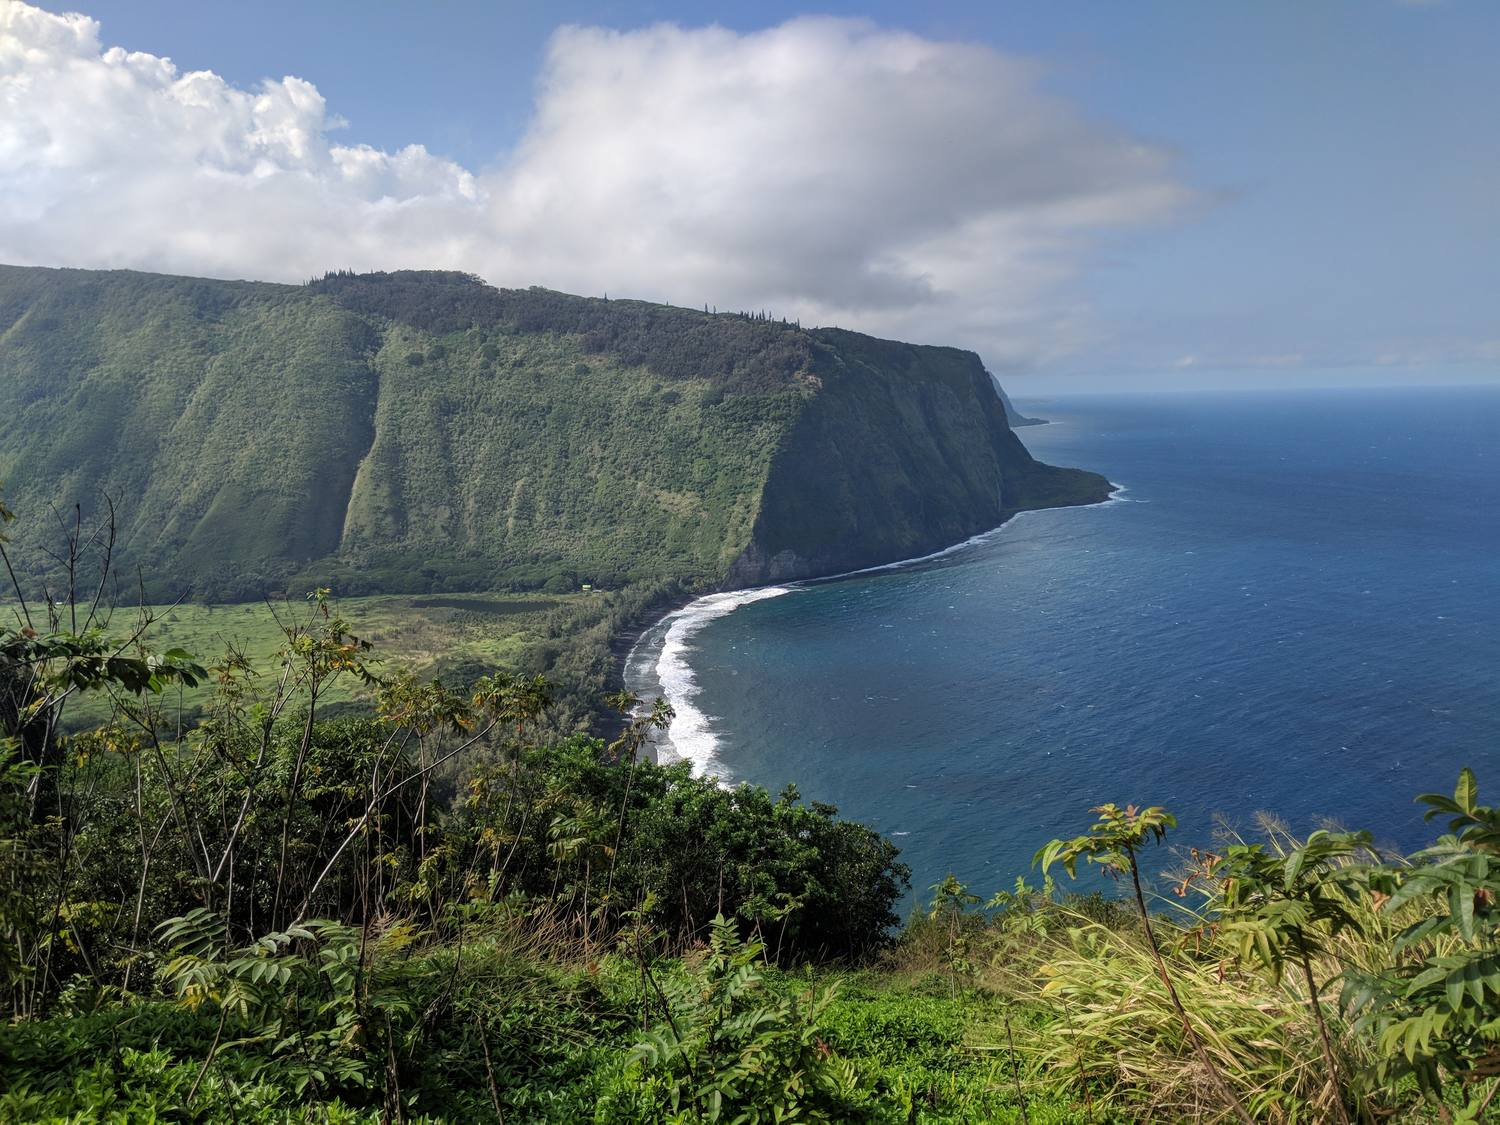
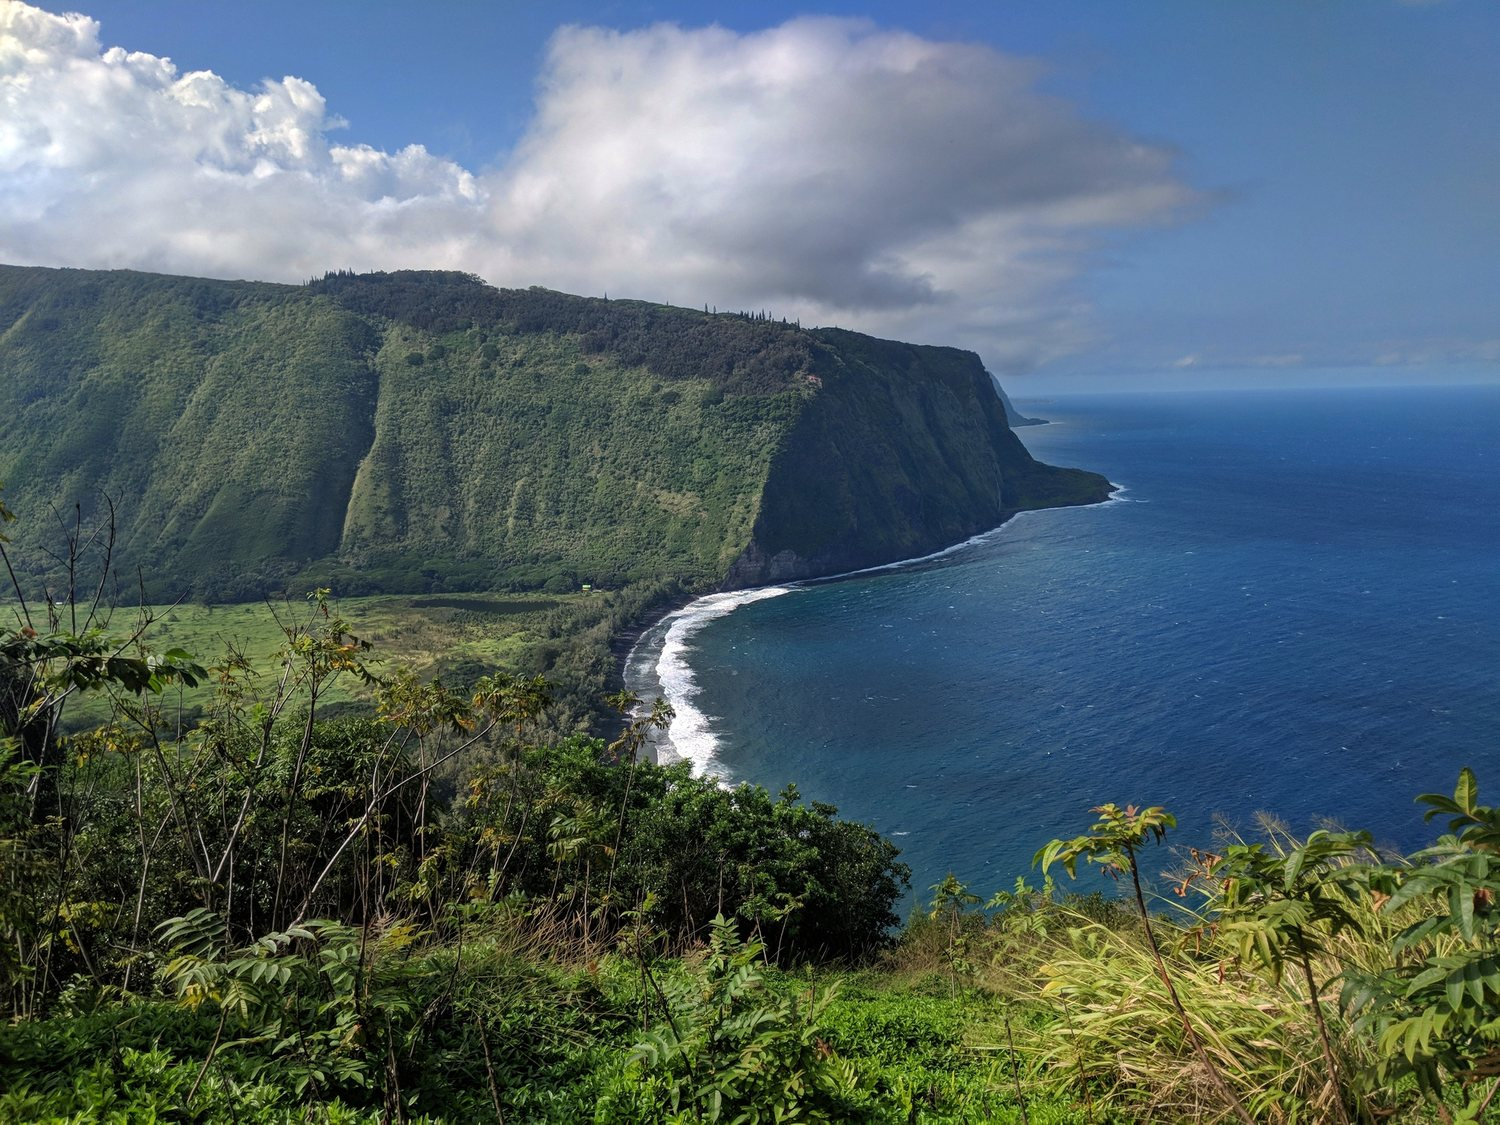
Dehaze Waipio, deepen Goat Rock Beach, drop the Gardner frame toggle
- Waipio lookout: gentle dark-channel dehaze from the original; trip photo
  and Big Island journal tile
- Goat Rock Beach (North Coast cover and trip photo): black point from the
  original DSCF0071, slight midtone deepening
- Boston: the empty-frame reveal is gone; the Rembrandt stays as a plain,
  credited photo

diff --git a/journal/boston/index.html b/journal/boston/index.html
@@ -198,19 +198,11 @@ footer{grid-column:1 / -1;text-align:center;font-size:10px;color:var(--text-ligh
 .gal-bar button:hover{background:var(--bg-nav-hover)}
 .gal-bar button[disabled]{opacity:.35;cursor:default}
 
-/* the empty frame */
-.wall{background:#2c3b33;background-image:repeating-linear-gradient(45deg,rgba(255,255,255,.025) 0 6px,transparent 6px 12px);padding:34px 16px 18px;display:flex;flex-direction:column;align-items:center;gap:14px}
-.frame{position:relative;width:min(78%,360px);padding:22px;background:linear-gradient(135deg,#8a6a2c,#e9cf86 22%,#9c7730 45%,#f3dc98 62%,#7d5d22 85%,#caa655);box-shadow:0 10px 24px rgba(0,0,0,.55),inset 0 0 0 3px rgba(60,40,10,.55),inset 0 0 0 7px rgba(255,236,170,.35)}
-.canvas{position:relative;aspect-ratio:965/1200;background:#2c3b33;background-image:repeating-linear-gradient(45deg,rgba(255,255,255,.025) 0 6px,transparent 6px 12px);box-shadow:inset 0 0 18px rgba(0,0,0,.7);overflow:hidden}
-.canvas img{position:absolute;inset:0;width:100%;height:100%;object-fit:cover;opacity:0;transition:opacity .9s ease}
-.canvas .empty-note{position:absolute;left:0;right:0;top:50%;transform:translateY(-50%);text-align:center;font:italic 13px Georgia,serif;color:#c9d3cc;padding:0 12px;transition:opacity .5s}
-.canvas .pd{position:absolute;left:0;right:0;bottom:0;background:rgba(0,0,0,.6);color:#eee;font:10px var(--verdana);padding:4px 6px;opacity:0;transition:opacity .9s}
-.wall.show .canvas img,.wall.show .canvas .pd{opacity:1}
-.wall.show .empty-note{opacity:0}
-.wall .tap-pill{position:static;transform:none;animation:none}
-.wall .tap-pill.pulse{animation:blink 1.4s ease-in-out infinite}
-@media (prefers-reduced-motion: reduce){.strip{scroll-behavior:auto}.canvas img,.canvas .pd{transition:none}.shore-bar button.pulse,.wall .tap-pill.pulse{animation:none}}
-@media (max-width:560px){.strip img{height:min(52vh,380px)}.frame{padding:16px}}
+/* public domain image credit */
+.post-photo.credited{position:relative}
+.post-photo .credit{position:absolute;right:6px;bottom:5px;font-size:9px;color:#fff;background:rgba(0,0,0,.55);padding:1px 5px}
+@media (prefers-reduced-motion: reduce){.strip{scroll-behavior:auto}.shore-bar button.pulse{animation:none}}
+@media (max-width:560px){.strip img{height:min(52vh,380px)}}
 </style>
 <link rel="stylesheet" href="/assets/site.css">
 </head>
@@ -594,20 +586,10 @@ footer{grid-column:1 / -1;text-align:center;font-size:10px;color:var(--text-ligh
 
   <article class="module post" id="empty-frame" data-pin="9" aria-labelledby="h-frame">
     <div class="module-header"><span class="where"><span class="pin-badge">9</span>The Dutch Room</span><span class="tod">Empty since 1990</span></div>
-    <div class="callout"><span class="try-ico" aria-hidden="true">🖼</span><span><b>Interactive.</b> Tap the button to see what used to hang in this frame. Tap again to put the frame back the way it hangs today.</span></div>
-    <div class="wall" id="frameWall">
-      <div class="frame">
-        <div class="canvas">
-          <span class="empty-note">Empty since March 18, 1990</span>
-          <img src="img/rembrandt-storm.jpg" width="965" height="1200" loading="lazy" alt="Rembrandt's Christ in the Storm on the Sea of Galilee: a small fishing boat heeling over on a huge dark wave, its sail torn, disciples struggling with ropes while Christ sits calmly in the stern, with light breaking through storm clouds above.">
-          <span class="pd">Rembrandt, 1633. Public domain image via Wikimedia Commons.</span>
-        </div>
-      </div>
-      <button type="button" class="tap-pill pulse" id="frameBtn" aria-pressed="false">🖼 Show what hung here</button>
-    </div>
+    <figure class="post-photo credited"><img src="img/rembrandt-storm.jpg" width="965" height="1200" loading="lazy" alt="Rembrandt's Christ in the Storm on the Sea of Galilee: a small fishing boat heeling over on a huge dark wave, its sail torn, disciples struggling with ropes while Christ sits calmly in the stern, with light breaking through storm clouds above."><span class="credit">Rembrandt, 1633. Public domain, via Wikimedia Commons.</span></figure>
     <div class="post-body">
       <h2 id="h-frame">Christ in the Storm on the Sea of Galilee</h2>
-      <p>This is one of my favorite paintings in all of art history. A tiny boat, a wall of water, and light breaking through right where it needs to. It would be lovely to see it in person one day. For now, you can see the frame.</p>
+      <p>This is one of my favorite paintings in all of art history. A tiny boat, a wall of water, and light breaking through right where it needs to. It would be lovely to see it in person one day. Right now there&rsquo;s only the frame.</p>
       <p class="lyric">It is Rembrandt&rsquo;s only known seascape. He painted himself into the boat: the one man looking straight out at you. The thieves cut the canvas out of its frame.</p>
       <table class="facts"><caption>The painting</caption>
         <tr><th>Painted</th><td>1633, oil on canvas, about 5 feet tall.</td></tr>
@@ -771,16 +753,6 @@ footer{grid-column:1 / -1;text-align:center;font-size:10px;color:var(--text-ligh
     then.addEventListener('click',function(){set(true)});
   })();
 
-  /* the empty frame */
-  (function(){
-    var wall=document.getElementById('frameWall'), btn=document.getElementById('frameBtn');
-    btn.addEventListener('click',function(){
-      var on=!wall.classList.contains('show');
-      wall.classList.toggle('show',on); btn.classList.remove('pulse');
-      btn.setAttribute('aria-pressed',String(on));
-      btn.textContent=on?'🖼 Put the frame back':'🖼 Show what hung here';
-    });
-  })();
 })();
 </script>
 </body>

diff --git a/build/boston-page.html b/build/boston-page.html
@@ -57,19 +57,11 @@
 .gal-bar button:hover{background:var(--bg-nav-hover)}
 .gal-bar button[disabled]{opacity:.35;cursor:default}
 
-/* the empty frame */
-.wall{background:#2c3b33;background-image:repeating-linear-gradient(45deg,rgba(255,255,255,.025) 0 6px,transparent 6px 12px);padding:34px 16px 18px;display:flex;flex-direction:column;align-items:center;gap:14px}
-.frame{position:relative;width:min(78%,360px);padding:22px;background:linear-gradient(135deg,#8a6a2c,#e9cf86 22%,#9c7730 45%,#f3dc98 62%,#7d5d22 85%,#caa655);box-shadow:0 10px 24px rgba(0,0,0,.55),inset 0 0 0 3px rgba(60,40,10,.55),inset 0 0 0 7px rgba(255,236,170,.35)}
-.canvas{position:relative;aspect-ratio:965/1200;background:#2c3b33;background-image:repeating-linear-gradient(45deg,rgba(255,255,255,.025) 0 6px,transparent 6px 12px);box-shadow:inset 0 0 18px rgba(0,0,0,.7);overflow:hidden}
-.canvas img{position:absolute;inset:0;width:100%;height:100%;object-fit:cover;opacity:0;transition:opacity .9s ease}
-.canvas .empty-note{position:absolute;left:0;right:0;top:50%;transform:translateY(-50%);text-align:center;font:italic 13px Georgia,serif;color:#c9d3cc;padding:0 12px;transition:opacity .5s}
-.canvas .pd{position:absolute;left:0;right:0;bottom:0;background:rgba(0,0,0,.6);color:#eee;font:10px var(--verdana);padding:4px 6px;opacity:0;transition:opacity .9s}
-.wall.show .canvas img,.wall.show .canvas .pd{opacity:1}
-.wall.show .empty-note{opacity:0}
-.wall .tap-pill{position:static;transform:none;animation:none}
-.wall .tap-pill.pulse{animation:blink 1.4s ease-in-out infinite}
-@media (prefers-reduced-motion: reduce){.strip{scroll-behavior:auto}.canvas img,.canvas .pd{transition:none}.shore-bar button.pulse,.wall .tap-pill.pulse{animation:none}}
-@media (max-width:560px){.strip img{height:min(52vh,380px)}.frame{padding:16px}}
+/* public domain image credit */
+.post-photo.credited{position:relative}
+.post-photo .credit{position:absolute;right:6px;bottom:5px;font-size:9px;color:#fff;background:rgba(0,0,0,.55);padding:1px 5px}
+@media (prefers-reduced-motion: reduce){.strip{scroll-behavior:auto}.shore-bar button.pulse{animation:none}}
+@media (max-width:560px){.strip img{height:min(52vh,380px)}}
 </style>
 <link rel="stylesheet" href="/assets/site.css">
 </head>
@@ -453,20 +445,10 @@
 
   <article class="module post" id="empty-frame" data-pin="9" aria-labelledby="h-frame">
     <div class="module-header"><span class="where"><span class="pin-badge">9</span>The Dutch Room</span><span class="tod">Empty since 1990</span></div>
-    <div class="callout"><span class="try-ico" aria-hidden="true">🖼</span><span><b>Interactive.</b> Tap the button to see what used to hang in this frame. Tap again to put the frame back the way it hangs today.</span></div>
-    <div class="wall" id="frameWall">
-      <div class="frame">
-        <div class="canvas">
-          <span class="empty-note">Empty since March 18, 1990</span>
-          <img src="img/rembrandt-storm.jpg" width="965" height="1200" loading="lazy" alt="Rembrandt's Christ in the Storm on the Sea of Galilee: a small fishing boat heeling over on a huge dark wave, its sail torn, disciples struggling with ropes while Christ sits calmly in the stern, with light breaking through storm clouds above.">
-          <span class="pd">Rembrandt, 1633. Public domain image via Wikimedia Commons.</span>
-        </div>
-      </div>
-      <button type="button" class="tap-pill pulse" id="frameBtn" aria-pressed="false">🖼 Show what hung here</button>
-    </div>
+    <figure class="post-photo credited"><img src="img/rembrandt-storm.jpg" width="965" height="1200" loading="lazy" alt="Rembrandt's Christ in the Storm on the Sea of Galilee: a small fishing boat heeling over on a huge dark wave, its sail torn, disciples struggling with ropes while Christ sits calmly in the stern, with light breaking through storm clouds above."><span class="credit">Rembrandt, 1633. Public domain, via Wikimedia Commons.</span></figure>
     <div class="post-body">
       <h2 id="h-frame">Christ in the Storm on the Sea of Galilee</h2>
-      <p>This is one of my favorite paintings in all of art history. A tiny boat, a wall of water, and light breaking through right where it needs to. It would be lovely to see it in person one day. For now, you can see the frame.</p>
+      <p>This is one of my favorite paintings in all of art history. A tiny boat, a wall of water, and light breaking through right where it needs to. It would be lovely to see it in person one day. Right now there&rsquo;s only the frame.</p>
       <p class="lyric">It is Rembrandt&rsquo;s only known seascape. He painted himself into the boat: the one man looking straight out at you. The thieves cut the canvas out of its frame.</p>
       <table class="facts"><caption>The painting</caption>
         <tr><th>Painted</th><td>1633, oil on canvas, about 5 feet tall.</td></tr>
@@ -630,16 +612,6 @@
     then.addEventListener('click',function(){set(true)});
   })();
 
-  /* the empty frame */
-  (function(){
-    var wall=document.getElementById('frameWall'), btn=document.getElementById('frameBtn');
-    btn.addEventListener('click',function(){
-      var on=!wall.classList.contains('show');
-      wall.classList.toggle('show',on); btn.classList.remove('pulse');
-      btn.setAttribute('aria-pressed',String(on));
-      btn.textContent=on?'🖼 Put the frame back':'🖼 Show what hung here';
-    });
-  })();
 })();
 </script>
 </body>

diff --git a/build/STATUS.md b/build/STATUS.md
@@ -21,7 +21,7 @@ pushed**. Joe wants every trip built locally before anything goes live.
 | Los Angeles | not started | |
 | Alabama (whole state, one page) | not started | Use Encyclopedia of Alabama; "lift all boats" |
 | Georgia | not started | Stage Kitchen cocktail shot goes here |
-| Boston | `build/boston-page.html` → `journal/boston/` | Done, new voice. 1795 shoreline map toggle + Gardner empty-frame reveal |
+| Boston | `build/boston-page.html` → `journal/boston/` | Done, new voice. 1795 shoreline map toggle. (Gardner empty-frame reveal removed Sept 30 at Joe's request; the Rembrandt is now a plain credited photo.) |
 | Yellowstone | not started | First national park, made "empty" by removal |
 
 The trip picker is `journal.html` (tile grid with Small/Medium/Large).
